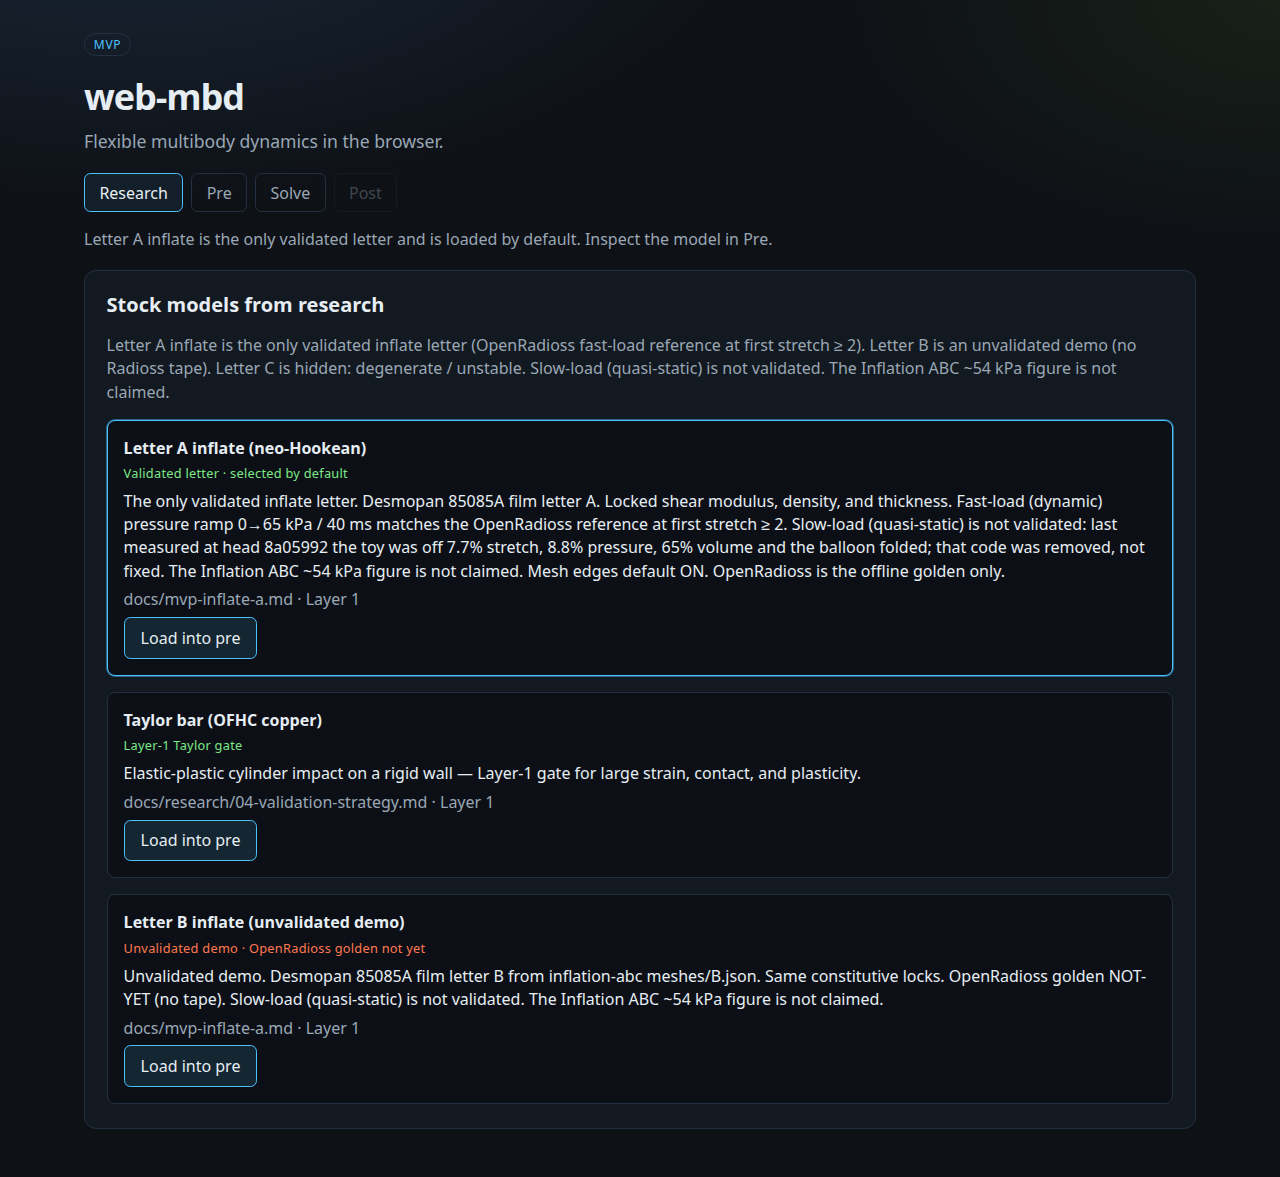
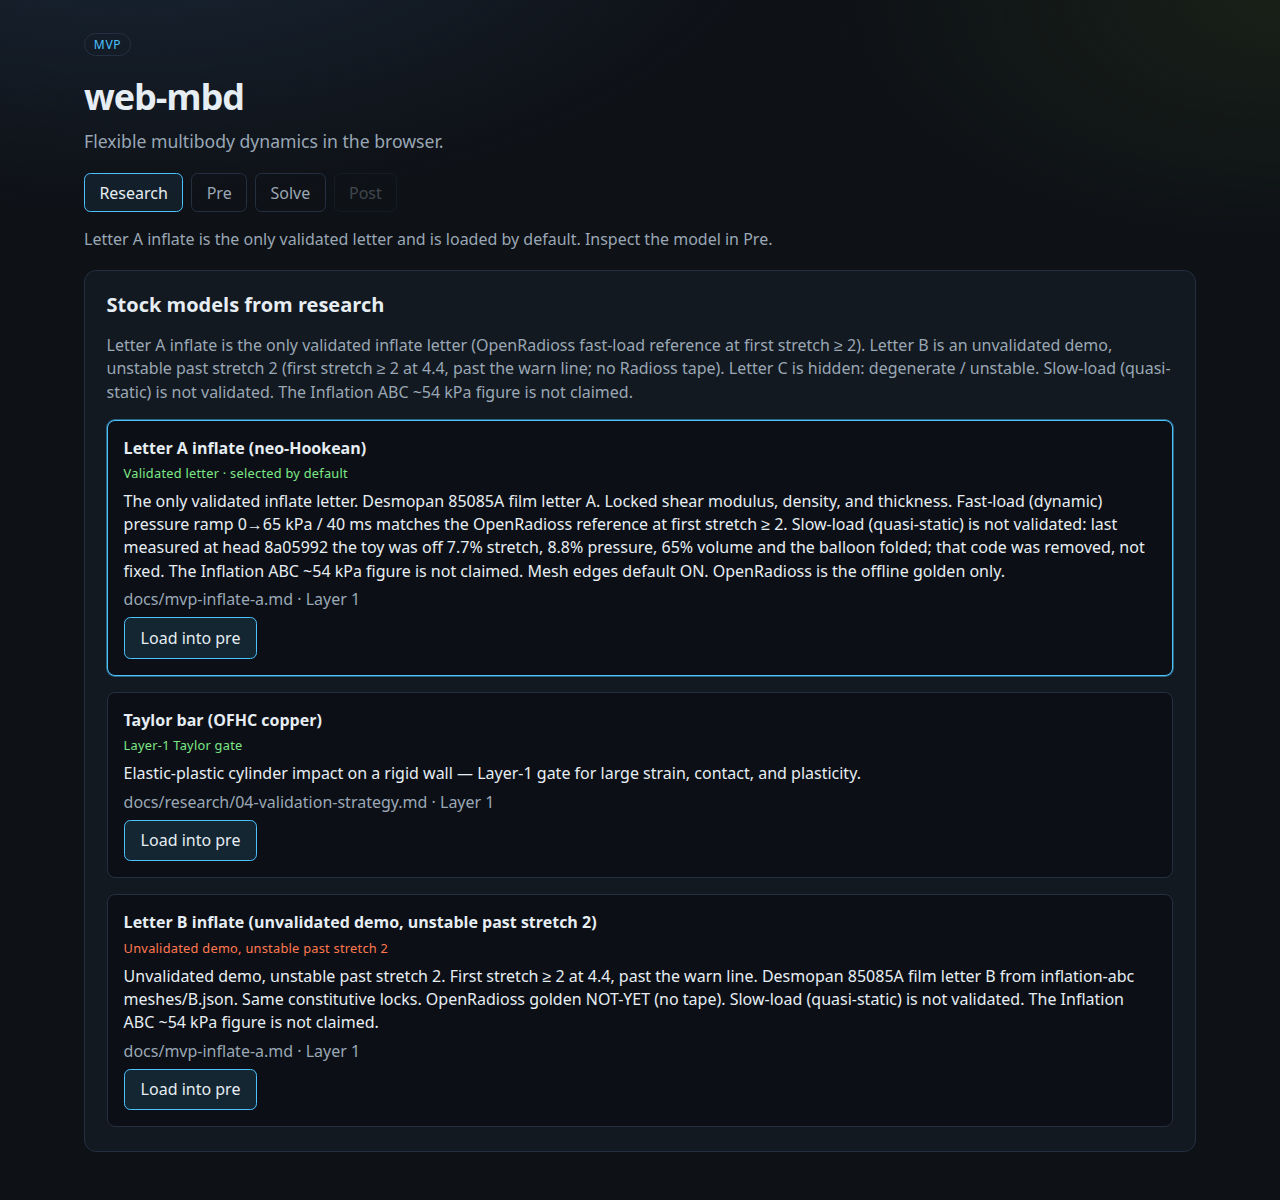
test(inflate): refresh Letter B catalog preview shots
Scope the badge locator to exact text. Recapture research catalog
screenshots with the unstable-past-stretch-2 label.

Changed region(s): [[0.0625, 0.2447, 0.9062, 0.7341], [0.0938, 0.7647, 0.875, 0.9482], [0.0625, 0.0306, 0.5938, 0.2141]]

diff --git a/e2e/home.spec.ts b/e2e/home.spec.ts
@@ -18,7 +18,7 @@ test("landing loads Letter A by default; catalog hides C and labels B", async ({
   await expect(page.getByText("Validated letter · selected by default")).toBeVisible();
   await expect(page.getByRole("button", { name: "Load Letter A inflate (neo-Hookean)" })).toBeVisible();
   await expect(page.getByRole("button", { name: "Load Letter B inflate (unvalidated demo, unstable past stretch 2)" })).toBeVisible();
-  await expect(page.getByText("Unvalidated demo, unstable past stretch 2")).toBeVisible();
+  await expect(page.getByText("Unvalidated demo, unstable past stretch 2", { exact: true })).toBeVisible();
   await expect(page.getByRole("button", { name: /Letter C/ })).toHaveCount(0);
   await expect(page.getByText(/Letter C is hidden/)).toBeVisible();
   await page.screenshot({ path: "e2e/artifacts/research-catalog.png", fullPage: true });

diff --git a/e2e/preview.spec.ts b/e2e/preview.spec.ts
@@ -48,7 +48,7 @@ async function shotLandingAndCatalog(
   await page.getByRole("button", { name: "Research" }).click();
   await expect(page.getByRole("heading", { name: "Stock models from research" })).toBeVisible();
   await expect(page.getByRole("button", { name: "Load Letter B inflate (unvalidated demo, unstable past stretch 2)" })).toBeVisible();
-  await expect(page.getByText("Unvalidated demo, unstable past stretch 2")).toBeVisible();
+  await expect(page.getByText("Unvalidated demo, unstable past stretch 2", { exact: true })).toBeVisible();
   await expect(page.getByRole("button", { name: /Letter C/ })).toHaveCount(0);
   await page.screenshot({ path: path.join(OUT, `research-b-labeled-c-hidden-${tag}.png`), fullPage: true });
 }
